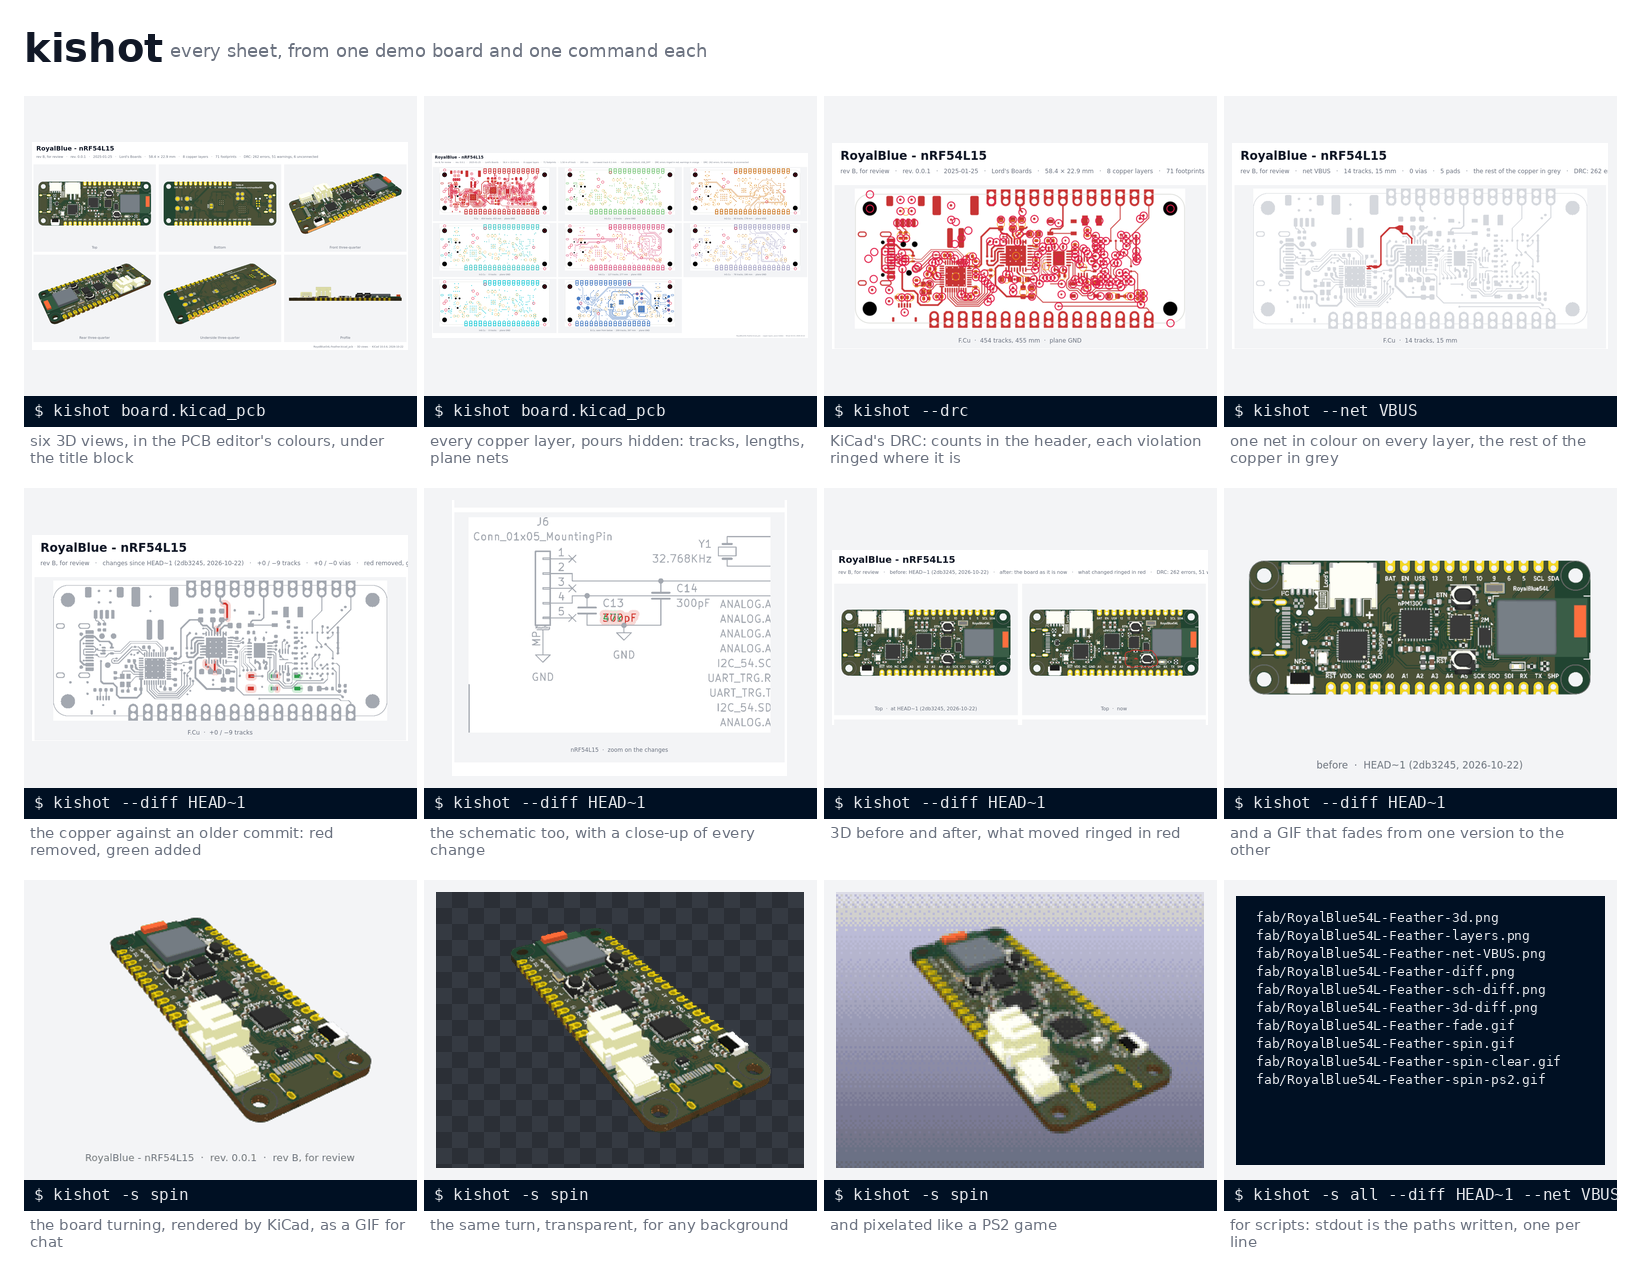
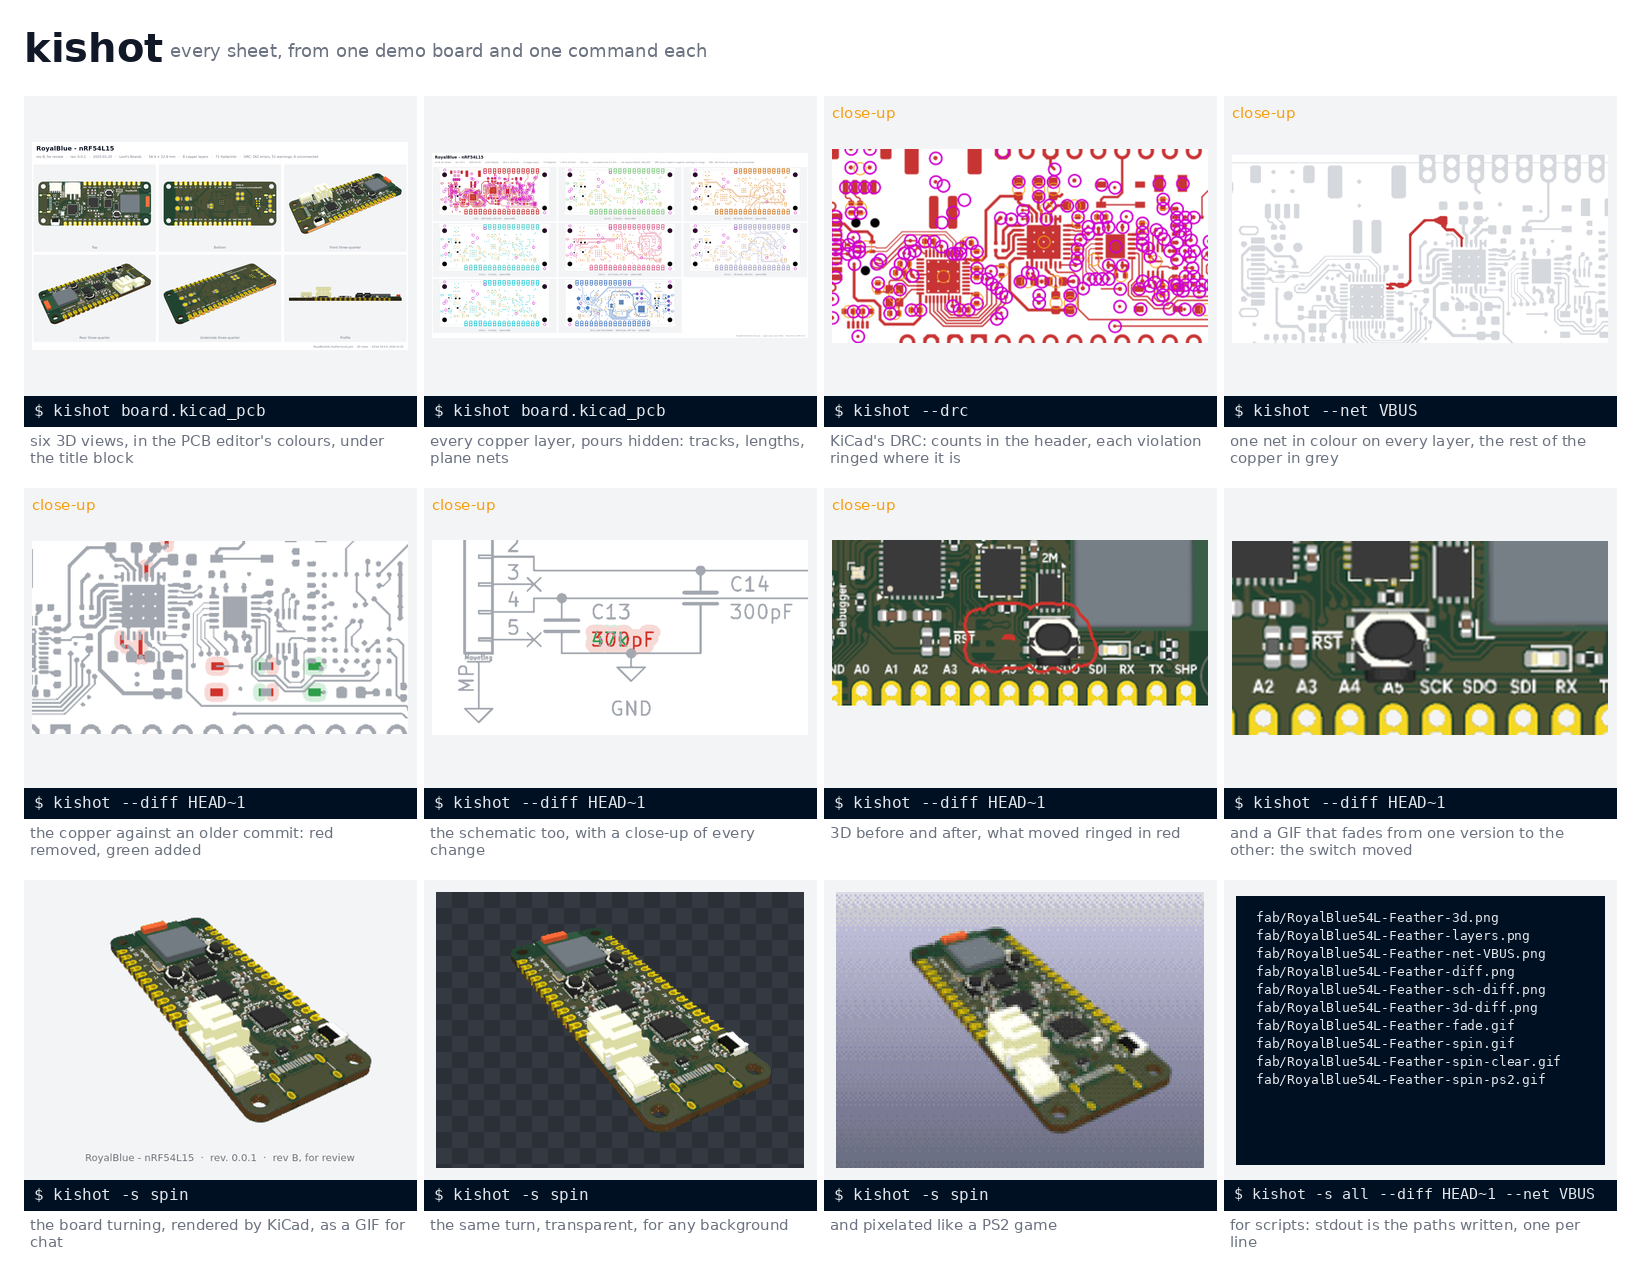
Tour: each feature zooms in on what it shows; DRC errors ringed in magenta

diff --git a/docs/images/showcase.py b/docs/images/showcase.py
@@ -2,7 +2,7 @@
 
     nix develop -c python3 docs/images/showcase.py docs/images [--demo DIR] [--quality] [--keep DIR]
 
-Needs kicad-cli, ImageMagick, git and Pillow (the flake's dev shell has them all).
+Needs kicad-cli, ImageMagick, git, numpy and Pillow (the flake's dev shell has them all).
 It copies KiCad's RoyalBlue54L Feather demo project to a scratch git repository, commits it,
 then edits a copy the way a review round would (tracks removed on F.Cu, a switch moved, a
 capacitor's value changed in the schematic) and commits that too. kishot then makes every
@@ -25,6 +25,7 @@ import sys
 import tempfile
 from pathlib import Path
 
+import numpy as np
 from PIL import Image, ImageDraw, ImageFont, ImageSequence
 
 HERE = Path(__file__).resolve().parent
@@ -144,52 +145,158 @@ def slide_base(command, caption):
     return img
 
 
+AREA = (W - 32, H - BAR - 24)  # where a slide shows its picture
+HIGHLIGHT = "#f59e0b"
+
+
+def hexrgb(h):
+    return np.array([int(h[i:i + 2], 16) for i in (1, 3, 5)], np.int16)
+
+
+def best_window(mask, frac, aspect):
+    """The window `frac` of the picture's width, at `aspect`, holding the most of `mask`,
+    then centred on what it holds. None when the mask is empty."""
+    if not mask.any():
+        return None
+    h, w = mask.shape
+    s = max(1, w // 400)
+    m = mask[:h // s * s, :w // s * s].reshape(h // s, s, w // s, s).any(axis=(1, 3))
+    mh, mw = m.shape
+    ww = max(4, int(mw * frac))
+    wh = max(4, int(ww / aspect))
+    if wh > mh:
+        wh, ww = mh, int(mh * aspect)
+    ii = np.zeros((mh + 1, mw + 1), np.int64)
+    ii[1:, 1:] = m.cumsum(0).cumsum(1)
+    sums = ii[wh:, ww:] - ii[:-wh, ww:] - ii[wh:, :-ww] + ii[:-wh, :-ww]
+    y, x = np.unravel_index(np.argmax(sums), sums.shape)
+    ys, xs = np.nonzero(m[y:y + wh, x:x + ww])
+    cx, cy = x + xs.mean(), y + ys.mean()
+    x0 = int(min(max(cx - ww / 2, 0), mw - ww))
+    y0 = int(min(max(cy - wh / 2, 0), mh - wh))
+    return x0 * s, y0 * s, (x0 + ww) * s, (y0 + wh) * s
+
+
+def colour_mask(img, colours, tol=45):
+    a = np.asarray(img.convert("RGB"), np.int16)
+    mask = np.zeros(a.shape[:2], bool)
+    for c in colours:
+        mask |= np.abs(a - hexrgb(c)).sum(-1) < tol
+    return mask
+
+
+def motion_mask(a, b, tol=60):
+    x = np.asarray(a.convert("RGB"), np.int16)
+    y = np.asarray(b.convert("RGB"), np.int16)
+    return np.abs(x - y).sum(-1) > tol
+
+
+def pad_to(img, aspect, colour=PAPER):
+    """The picture centred on a canvas of the slide's aspect, and where it went."""
+    w, h = img.size
+    if w / h < aspect:
+        cw, ch = int(h * aspect), h
+    else:
+        cw, ch = w, int(w / aspect)
+    canvas = Image.new("RGBA", (cw, ch), colour)
+    ox, oy = (cw - w) // 2, (ch - h) // 2
+    canvas.paste(img, (ox, oy), img)
+    return canvas, (ox, oy)
+
+
+def view(canvas, box, target=None, base=None, width=4):
+    """The slide frame showing `box` of the canvas, `target` outlined."""
+    pic = canvas.crop(tuple(int(v) for v in box)).resize(AREA, Image.LANCZOS)
+    frame = base.copy()
+    frame.paste(pic, (16, BAR + 12), pic)
+    if target:
+        k = AREA[0] / (box[2] - box[0])
+        x0, y0 = 16 + (target[0] - box[0]) * k, BAR + 12 + (target[1] - box[1]) * k
+        x1, y1 = 16 + (target[2] - box[0]) * k, BAR + 12 + (target[3] - box[1]) * k
+        ImageDraw.Draw(frame).rectangle([max(14, x0), max(BAR + 10, y0), min(W - 14, x1), min(H - 10, y1)],
+                                         outline=HIGHLIGHT, width=width)
+    return frame
+
+
+def ease(t):
+    return t * t * (3 - 2 * t)
+
+
+def focus_of(spec, frames):
+    """Where the eye should go on this output, in its own pixels; None for the whole of it."""
+    focus = spec.get("focus")
+    if not focus:
+        return None
+    aspect = AREA[0] / AREA[1]
+    if focus == "motion":
+        mask = motion_mask(frames[0][0], frames[len(frames) // 2][0])
+        return best_window(mask, spec.get("frac", 0.4), aspect)
+    return best_window(colour_mask(frames[0][0], focus), spec.get("frac", 0.25), aspect)
+
+
 def slide(spec, out):
-    """The frames of one slide: (RGB image, duration ms)."""
-    command, caption, name, crop, hold, backdrop = spec
-    base = slide_base(command, caption)
-    area = (W - 32, H - BAR - 24)
-    frames = frames_of(out / name)
-    step = max(1, len(frames) // 36)  # long animations are thinned for the tour
+    """The frames of one slide: (RGB image, duration ms). A slide with a focus shows the whole
+    output with the focus outlined, then zooms in on it and stays there."""
+    base = slide_base(spec["command"], spec["caption"])
+    frames = frames_of(out / spec["file"])
+    target = focus_of(spec, frames)
+    aspect = AREA[0] / AREA[1]
+    backdrop = spec.get("backdrop")
     result = []
-    for img, ms in frames[::step]:
-        pic = fit(img, area, crop)
-        frame = base.copy()
-        x, y = (W - pic.width) // 2, BAR + 12 + (area[1] - pic.height) // 2
-        if backdrop == "checker":
-            frame.paste(checkerboard(pic.size), (x, y))
-        frame.paste(pic, (x, y), pic)
-        result.append((frame, ms * step))
-    if len(result) == 1:
-        result[0] = (result[0][0], hold)
+    if len(frames) > 1:  # an animation: played in place, on its focus when it has one
+        step = max(1, len(frames) // 36)  # long animations are thinned for the tour
+        for img, ms in frames[::step]:
+            if target:
+                img = img.crop(target)
+            canvas, _ = pad_to(img, aspect, "#00000000" if backdrop == "checker" else PAPER)
+            if backdrop == "checker":
+                board = checkerboard(canvas.size).convert("RGBA")
+                board.alpha_composite(canvas)
+                canvas = board
+            result.append((view(canvas, (0, 0) + canvas.size, base=base), ms * step))
+        return result
+    canvas, (ox, oy) = pad_to(frames[0][0], aspect)
+    whole = (0, 0) + canvas.size
+    if not target:
+        return [(view(canvas, whole, base=base), spec.get("hold", 2600))]
+    t = (target[0] + ox, target[1] + oy, target[2] + ox, target[3] + oy)
+    result.append((view(canvas, whole, t, base), 1400))
+    steps = 7
+    for i in range(1, steps + 1):
+        k = ease(i / steps)
+        box = tuple(a + (b - a) * k for a, b in zip(whole, t))
+        result.append((view(canvas, box, t, base), 60))
+    result[-1] = (result[-1][0], spec.get("hold", 2600))
     return result
 
 
 def slides(stem):
-    """(command, caption, file, crop (fractions) or None, hold ms, backdrop)."""
+    """Every slide: the command, a caption, the output file, and where to look (colours to find,
+    "motion" for what moves in an animation, or nothing for the whole picture)."""
+    removed_added = ["#d0342c", "#2e9e4a"]
     return [
-        ("kishot board.kicad_pcb", "six 3D views, in the PCB editor's colours, under the title block",
-         f"{stem}-3d.png", None, 2600, None),
-        ("kishot board.kicad_pcb", "every copper layer, pours hidden: tracks, lengths, plane nets",
-         f"{stem}-layers.png", None, 2600, None),
-        ("kishot --drc", "KiCad's DRC: counts in the header, each violation ringed where it is",
-         f"{stem}-layers.png", (0.0, 0.0, 0.333, 0.37), 2600, None),
-        ("kishot --net VBUS", "one net in colour on every layer, the rest of the copper in grey",
-         f"{stem}-net-VBUS.png", (0.0, 0.0, 0.333, 0.37), 2600, None),
-        ("kishot --diff HEAD~1", "the copper against an older commit: red removed, green added",
-         f"{stem}-diff.png", (0.0, 0.0, 0.333, 0.37), 2600, None),
-        ("kishot --diff HEAD~1", "the schematic too, with a close-up of every change",
-         f"{stem}-sch-diff.png", (0.0, 0.66, 0.5, 1.0), 2800, None),
-        ("kishot --diff HEAD~1", "3D before and after, what moved ringed in red",
-         f"{stem}-3d-diff.png", (0.0, 0.0, 1.0, 0.56), 2600, None),
-        ("kishot --diff HEAD~1", "and a GIF that fades from one version to the other",
-         f"{stem}-fade.gif", None, 0, None),
-        ("kishot -s spin", "the board turning, rendered by KiCad, as a GIF for chat",
-         f"{stem}-spin.gif", None, 0, None),
-        ("kishot -s spin", "the same turn, transparent, for any background",
-         f"{stem}-spin-clear.gif", None, 0, "checker"),
-        ("kishot -s spin", "and pixelated like a PS2 game",
-         f"{stem}-spin-ps2.gif", None, 0, None),
+        dict(command="kishot board.kicad_pcb", file=f"{stem}-3d.png",
+             caption="six 3D views, in the PCB editor's colours, under the title block"),
+        dict(command="kishot board.kicad_pcb", file=f"{stem}-layers.png",
+             caption="every copper layer, pours hidden: tracks, lengths, plane nets"),
+        dict(command="kishot --drc", file=f"{stem}-layers.png", focus=["#d000d0"], frac=0.2,
+             caption="KiCad's DRC: counts in the header, each violation ringed where it is"),
+        dict(command="kishot --net VBUS", file=f"{stem}-net-VBUS.png", focus=["#c83434"], frac=0.2,
+             caption="one net in colour on every layer, the rest of the copper in grey"),
+        dict(command="kishot --diff HEAD~1", file=f"{stem}-diff.png", focus=removed_added, frac=0.16,
+             caption="the copper against an older commit: red removed, green added"),
+        dict(command="kishot --diff HEAD~1", file=f"{stem}-sch-diff.png", focus=removed_added, frac=0.3,
+             caption="the schematic too, with a close-up of every change", hold=3000),
+        dict(command="kishot --diff HEAD~1", file=f"{stem}-3d-diff.png", focus=["#d0342c"], frac=0.25,
+             caption="3D before and after, what moved ringed in red"),
+        dict(command="kishot --diff HEAD~1", file=f"{stem}-fade.gif", focus="motion", frac=0.35,
+             caption="and a GIF that fades from one version to the other: the switch moved"),
+        dict(command="kishot -s spin", file=f"{stem}-spin.gif",
+             caption="the board turning, rendered by KiCad, as a GIF for chat"),
+        dict(command="kishot -s spin", file=f"{stem}-spin-clear.gif", backdrop="checker",
+             caption="the same turn, transparent, for any background"),
+        dict(command="kishot -s spin", file=f"{stem}-spin-ps2.gif",
+             caption="and pixelated like a PS2 game"),
     ]
 
 
@@ -212,15 +319,19 @@ def stdout_slide(paths):
     return [(img, 3200)]
 
 
-def save_gif(frames, path):
-    """One palette per slide (taken from its first frame), so an animation does not flicker."""
+def save_gif(slides_frames, path):
+    """One palette per slide, from its first and last frames together: an animation does not
+    flicker, and a close-up keeps colours that were a few pixels in the whole view."""
     out, durations = [], []
-    palette = None
-    for img, ms in frames:
-        if getattr(img, "_new_slide", False) or palette is None:
-            palette = img.quantize(colors=255, method=Image.Quantize.MEDIANCUT)
-        out.append(img.quantize(palette=palette, dither=Image.Dither.NONE))
-        durations.append(max(20, ms))
+    for frames in slides_frames:
+        first, last = frames[0][0], frames[-1][0]
+        both = Image.new("RGB", (first.width, first.height * 2))
+        both.paste(first, (0, 0))
+        both.paste(last, (0, first.height))
+        palette = both.quantize(colors=255, method=Image.Quantize.MEDIANCUT)
+        for img, ms in frames:
+            out.append(img.quantize(palette=palette, dither=Image.Dither.NONE))
+            durations.append(max(20, ms))
     out[0].save(path, save_all=True, append_images=out[1:], duration=durations, loop=0, optimize=True)
     # Most of a slide does not move: keep only what changes from one frame to the next.
     subprocess.run(["magick", str(path), "-layers", "Optimize", str(path)], check=True)
@@ -240,22 +351,15 @@ def written_paths(out):
 
 
 def tour(out, dest):
-    frames = []
-    for spec in slides(BOARD):
-        s = slide(spec, out)
-        s[0][0]._new_slide = True
-        frames += s
-    s = stdout_slide(written_paths(out))
-    s[0][0]._new_slide = True
-    frames += s
-    save_gif(frames, dest / "tour.gif")
+    groups = [slide(spec, out) for spec in slides(BOARD)]
+    groups.append(stdout_slide(written_paths(out)))
+    save_gif(groups, dest / "tour.gif")
 
 
 def features(out, dest):
-    """All the features at a glance: a grid of captioned thumbnails."""
-    specs = slides(BOARD)
-    specs = specs + [("kishot -s all --diff HEAD~1 --net VBUS", "for scripts: stdout is the paths written, one per line",
-                      None, None, 0, "terminal")]
+    """All the features at a glance: a grid of captioned thumbnails, each on what it shows."""
+    specs = slides(BOARD) + [dict(command="kishot -s all --diff HEAD~1 --net VBUS", backdrop="terminal",
+                                  caption="for scripts: stdout is the paths written, one per line")]
     cols, cw, ch, gap = 4, 400, 300, 92
     rows = (len(specs) + cols - 1) // cols
     head = 96
@@ -263,22 +367,32 @@ def features(out, dest):
     d = ImageDraw.Draw(sheet)
     d.text((24, 24), "kishot", font=font("DejaVu Sans:bold", 40), fill=INK)
     d.text((170, 40), "every sheet, from one demo board and one command each", font=SANS, fill=GREY)
-    for i, (command, caption, name, crop, _, backdrop) in enumerate(specs):
+    for i, spec in enumerate(specs):
         x, y = 20 + (i % cols) * cw, head + (i // cols) * (ch + gap)
         d.rectangle([x + 4, y, x + cw - 4, y + ch], fill=PAPER)
-        if backdrop == "terminal":
+        if spec.get("backdrop") == "terminal":
             terminal(sheet, [x + 16, y + 16, x + cw - 16, y + ch - 16], written_paths(out), size=13)
         else:
-            img = frames_of(out / name)
+            frames = frames_of(out / spec["file"])
             # The fade's first frame is the older board, whole; a spin's third is a nice angle.
-            pic = fit(img[0 if "fade" in name else len(img) // 3][0], (cw - 24, ch - 24), crop)
+            img = frames[0 if "fade" in spec["file"] else len(frames) // 3][0]
+            target = focus_of(spec, frames)
+            if target:
+                img = img.crop(target)
+            pic = fit(img, (cw - 24, ch - 24))
             px, py = x + (cw - pic.width) // 2, y + (ch - pic.height) // 2
-            if backdrop == "checker":
+            if spec.get("backdrop") == "checker":
                 sheet.paste(checkerboard(pic.size), (px, py))
             sheet.paste(pic, (px, py), pic)
+            if target and len(frames) == 1:
+                d.text((x + 12, y + 8), "close-up", font=SANS_SMALL, fill=HIGHLIGHT)
         d.rectangle([x + 4, y + ch, x + cw - 4, y + ch + 30], fill=EDITOR)
-        d.text((x + 14, y + ch + 5), "$ " + command, font=font("DejaVu Sans Mono", 16), fill=COMMAND)
-        words, line, lines = caption.split(), "", []
+        size = 16
+        while size > 10 and d.textlength("$ " + spec["command"], font=font("DejaVu Sans Mono", size)) > cw - 28:
+            size -= 1
+        d.text((x + 14, y + ch + 5 + (16 - size) // 2), "$ " + spec["command"],
+               font=font("DejaVu Sans Mono", size), fill=COMMAND)
+        words, line, lines = spec["caption"].split(), "", []
         for w_ in words:
             if d.textlength(line + " " + w_, font=SANS_SMALL) > cw - 24:
                 lines.append(line)

diff --git a/kishot.py b/kishot.py
@@ -677,7 +677,9 @@ def mark(png, points, box, severity_colours, radius):
     run(["magick", str(png), "-fill", "none", *draw, str(png)], "marking DRC violations")
 
 
-DRC_COLOURS = {"error": "#e11d48", "warning": "#f59e0b"}
+# Magenta: no copper layer of KiCad's default theme comes near it, so a ring on red F.Cu
+# copper still shows.
+DRC_COLOURS = {"error": "#d000d0", "warning": "#f59e0b"}
 
 
 def make_layers(pcb, board, out, fast, work):
@@ -707,7 +709,7 @@ def make_layers(pcb, board, out, fast, work):
     columns = 2 if len(layers) <= 4 else math.ceil(math.sqrt(len(layers)))
     details = board_details(board) + stats_details(board)
     if drc and drc["markers"]:
-        details.append("DRC errors ringed in red, warnings in orange")
+        details.append("DRC errors ringed in magenta, warnings in orange")
     return sheet(tiles, columns, header(pcb, board, "copper layers, pours hidden", details), out, style, work)
 
 

diff --git a/README.md b/README.md
@@ -28,7 +28,7 @@ kishot my-board.kicad_pcb
 | **3D** | top, bottom, three three-quarter views and the profile, in the colours of the PCB editor (solder mask included), cut out on a light background |
 | **Copper layers** | every copper layer on its own, front to back, with the copper pours hidden so the routing shows; each one captioned with its track count, length and the net of its plane; the header adds the total length, vias, narrowest track and net classes |
 | **One net** | `--net GND`: one net in its layer's colour on every layer, the rest of the copper in grey; its tracks, length, vias and pads |
-| **Design rules** | `--drc`: KiCad's DRC runs first; errors and warnings in every header, ringed on the copper layers |
+| **Design rules** | `--drc`: KiCad's DRC runs first; errors and warnings in every header, ringed on the copper layers (errors in magenta, warnings in orange) |
 | **Changes** | `--diff REV`, against the board at an older git revision. The copper, layer by layer: removed in red, added in green, the rest in grey, each change ringed so a short track still shows, with tracks and vias added and removed. The schematic, page by page, the same way, with a close-up of each change. The 3D views before and after, side by side, with what changed ringed. And a GIF that fades from one to the other, so a moved part blinks |
 | **Notes** | `--note "for the review of 23/10"`: a line of your own at the head of every sheet |
 | **Turntable** | `-s spin`: the board, rendered by KiCad, turning once on itself at 20 frames a second, as three animated GIFs: on a light background with its name, transparent without text, and pixelated like a PS2 game; chat apps play them inline |
@@ -246,7 +246,8 @@ flicker. Three GIFs come out of the same renders:
 **Design rules.** `--drc` runs `kicad-cli pcb drc` on the board with the project's own rules,
 errors and warnings (exclusions left out). Each violation's first item gives a position, and its
 description the layer ("Track on F.Cu", or the layer's user name): it is ringed there, thick and
-red for an error, thin and orange for a warning, on every layer when it names none. The counts are
+magenta for an error (no copper layer of KiCad's default theme uses it, so a ring shows even on
+red F.Cu), thin and orange for a warning, on every layer when it names none. The counts are
 KiCad's: a demo board whose vias are finer than its own drill rule shows hundreds of errors.
 
 **One net.** `--net` takes the exact name, the name in any case, or its last part (`VBAT` for

diff --git a/CHANGELOG.md b/CHANGELOG.md
@@ -2,6 +2,7 @@
 
 ## Unreleased
 
+- DRC errors are ringed in magenta, not red: on F.Cu, red rings disappeared in the copper.
 - README: a tour (`tour.gif`, one slide per feature, the command above its output) and an
   overview (`features.png`), built by `docs/images/showcase.py` from KiCad's RoyalBlue54L demo
   and a scripted review round; the full-size sheets folded under them.
